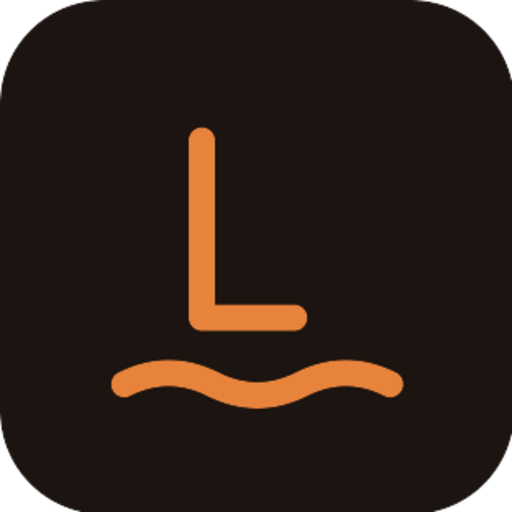
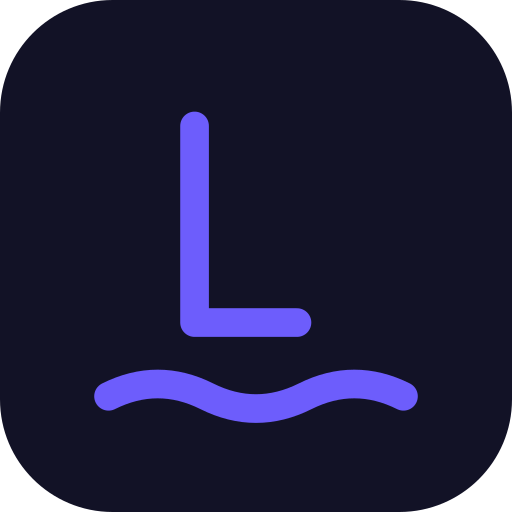
l.seedwave.pt v3: индиго, мини-диалог AIMA, тексты без Игоря (#2)
* l.seedwave.pt v3: индиго, светлая тема по умолчанию, мини-диалог AIMA, тексты без Игоря (5 языков)

- палитра: акцент #6D5DFC / ховер #5445E6 / фон #F6F5FF / рамки #E4E1FB / текст #1B1A2E / второстепенный #5C5B78; ночная: #121226 / #8B7DFF
- окно «Лис на связи»: диалог про письмо AIMA + 3 кнопки
- подвал: «Лис работает только с тем, к чему ты сам открыл доступ»
- значок, фавикон, apple-touch, 192/512, OG перекрашены; шрифт Inter

Claude-Session: https://claude.ai/code/session_01VKHYpjYwKjZCCgpFYtMmVL

* Ночная тема: абзац читаемым цветом

---------

diff --git a/index.html b/index.html
@@ -3,18 +3,18 @@
 <head>
 <meta charset="UTF-8">
 <meta name="viewport" content="width=device-width, initial-scale=1.0, viewport-fit=cover">
-<title>Lis — your AI secretary in two sessions</title>
-<meta name="description" content="Email and calendar run by an agent, a voice daily plan, your own Claude Project. Two online sessions with Igor, who lives this way on Madeira himself. You leave with a working secretary, not with advice.">
+<title>Lis — your AI secretary can start on Tuesday</title>
+<meta name="description" content="In a year everyone will have an AI secretary. Lis sorts your inbox, books meetings and answers by voice — an agent on your own data, set up in two online sessions. Made on Madeira.">
 
 <link rel="icon" type="image/svg+xml" href="icon.svg">
 <link rel="icon" type="image/png" sizes="32x32" href="favicon-32.png">
 <link rel="apple-touch-icon" sizes="180x180" href="apple-touch-icon.png">
 <link rel="manifest" href="manifest.webmanifest">
 <meta name="apple-mobile-web-app-title" content="Lis">
-<meta name="theme-color" content="#1B1410">
+<meta name="theme-color" content="#F6F5FF">
 
-<meta property="og:title" content="Lis — your AI secretary in two sessions">
-<meta property="og:description" content="Two online sessions with Igor, a week of follow-up — and your own AI secretary runs inside your Claude. Step 1 of the Island programme.">
+<meta property="og:title" content="Lis — your AI secretary can start on Tuesday">
+<meta property="og:description" content="Sorts your inbox, books meetings, answers by voice while you drive. An agent on your own data, set up in two online sessions. Made on Madeira.">
 <meta property="og:image" content="https://l.seedwave.pt/og-image.png">
 <meta property="og:url" content="https://l.seedwave.pt/">
 <meta property="og:type" content="website">
@@ -22,13 +22,13 @@
 
 <style>
 :root{
-  --bg:#1B1410; --bg2:#241A13; --bg3:#2C2018; --ink:#F6ECE4; --mut:#C9B4A6;
-  --line:#3A2C22; --accent:#E8833C; --accent2:#F3A868; --accentInk:#2A1408;
-  --serif:Georgia,'Times New Roman',serif; --sans:-apple-system,BlinkMacSystemFont,'Segoe UI',Roboto,Arial,sans-serif;
+  --bg:#F6F5FF; --bg2:#FFFFFF; --bg3:#EFEDFF; --ink:#1B1A2E; --mut:#5C5B78;
+  --line:#E4E1FB; --accent:#6D5DFC; --accent2:#5445E6; --accentInk:#FFFFFF;
+  --serif:Georgia,'Times New Roman',serif; --sans:Inter,-apple-system,BlinkMacSystemFont,'Segoe UI',Roboto,Arial,sans-serif;
 }
-:root[data-theme="light"]{
-  --bg:#FBF4EE; --bg2:#FFFFFF; --bg3:#FCF6F1; --ink:#241A13; --mut:#7A6656;
-  --line:#EAD9CB; --accent:#C96A25; --accent2:#E8833C; --accentInk:#FFFFFF;
+:root[data-theme="dark"]{
+  --bg:#121226; --bg2:#1A1A33; --bg3:#232345; --ink:#F1EFFF; --mut:#A9A6C9;
+  --line:#2F2E55; --accent:#8B7DFF; --accent2:#A79CFF; --accentInk:#121226;
 }
 *{box-sizing:border-box;margin:0;padding:0}
 html{scroll-behavior:smooth}
@@ -52,7 +52,7 @@ a{color:inherit}
 .rbtn:active{transform:scale(.92)}
 .langwrap{position:relative}
 .langmenu{position:absolute;top:46px;right:0;background:var(--bg2);border:1px solid var(--line);border-radius:14px;
-  padding:6px;min-width:176px;box-shadow:0 12px 30px rgba(0,0,0,.28);display:none;z-index:40}
+  padding:6px;min-width:176px;box-shadow:0 12px 30px rgba(27,26,46,.14);display:none;z-index:40}
 .langmenu.open{display:block}
 .langmenu button{display:flex;width:100%;gap:10px;align-items:center;background:none;border:none;color:var(--ink);
   padding:9px 10px;border-radius:9px;cursor:pointer;font-size:14px;text-align:left;font-family:inherit}
@@ -67,26 +67,21 @@ section{padding:0 22px}
 .hero{min-height:100svh;display:flex;flex-direction:column;justify-content:center;padding-top:82px;padding-bottom:40px}
 .tag{color:var(--accent);font-size:13px;font-weight:700;letter-spacing:.14em;text-transform:uppercase;margin-bottom:14px}
 h1{font-family:var(--sans);font-size:clamp(52px,15vw,96px);line-height:.98;font-weight:700;letter-spacing:-.01em}
-.sub{font-size:clamp(19px,4.8vw,26px);color:var(--accent2);margin-top:10px;font-weight:600}
-.hook{font-size:clamp(16px,3.6vw,19px);color:var(--mut);margin-top:20px;max-width:580px}
+.sub{font-size:clamp(19px,4.8vw,26px);color:var(--accent);margin-top:10px;font-weight:600}
+.hook{font-size:clamp(16px,3.6vw,19px);color:#3B3A55;}
+:root[data-theme="dark"] .hook{color:var(--mut);margin-top:20px;max-width:580px}
 
-/* photo-wow card */
-.wow{margin-top:30px;background:var(--bg2);border:1px solid var(--line);border-radius:20px;padding:18px;max-width:440px}
-.wow .wh{display:flex;align-items:center;gap:8px;color:var(--mut);font-size:13px;margin-bottom:14px}
-.wow .wh b{color:var(--ink)}
-.fox{width:18px;height:18px}
-.pline{display:flex;align-items:flex-start;gap:10px;padding:11px 13px;border-radius:12px;background:var(--bg3);margin-bottom:9px;font-size:14px;
-  opacity:0;transform:translateY(8px);transition:opacity .45s ease,transform .45s ease}
-.pline.show{opacity:1;transform:none}
-.pline .ic{flex:0 0 auto;font-size:15px;line-height:1.4}
-.pline .tx{flex:1}
-.pline.get{color:var(--ink)}
-.pline.get .lbl{color:var(--accent);font-weight:700}
-.pline.done{align-items:center;justify-content:space-between}
-.pline.done .tx{color:var(--mut)}
-.ynb{display:flex;gap:6px;flex:0 0 auto}
-.yn{width:30px;height:26px;border-radius:8px;display:flex;align-items:center;justify-content:center;font-size:13px;border:1px solid var(--line)}
-.yn.y{border-color:var(--accent);background:var(--accent);color:var(--accentInk)}
+/* chat card (Лис на связи) */
+.wow{margin-top:30px;background:var(--bg2);border:1px solid var(--line);border-radius:18px;padding:18px 18px 20px;max-width:520px;box-shadow:0 10px 30px rgba(109,93,252,.08);display:flex;flex-direction:column;gap:12px}
+.wow .wh{display:flex;align-items:center;gap:8px;color:var(--ink);font-size:13px;font-weight:600}
+.fox{width:14px;height:14px}
+.bub{max-width:82%;padding:10px 14px;font-size:14px;line-height:1.4;opacity:0;transform:translateY(8px);transition:opacity .45s ease,transform .45s ease}
+.bub.show{opacity:1;transform:none}
+.bub.me{align-self:flex-end;background:var(--accent);color:var(--accentInk);border-radius:14px 14px 4px 14px;max-width:78%}
+.bub.lis{align-self:flex-start;background:var(--bg3);color:var(--ink);border-radius:14px 14px 14px 4px}
+.chips{display:flex;gap:8px;flex-wrap:wrap;opacity:0;transition:opacity .45s ease}
+.chips.show{opacity:1}
+.chip{border:1px solid var(--line);background:var(--bg2);color:var(--ink);border-radius:999px;padding:8px 14px;font-size:13px;font-weight:500;min-height:36px;font-family:inherit;cursor:default}
 
 /* cta */
 .cta{display:flex;flex-wrap:wrap;gap:12px;margin-top:30px;align-items:center}
@@ -109,16 +104,19 @@ h1{font-family:var(--sans);font-size:clamp(52px,15vw,96px);line-height:.98;font-
   background:var(--accent);box-shadow:0 0 0 4px color-mix(in srgb,var(--accent) 22%,transparent)}
 
 /* footer */
-footer{text-align:center;padding:40px 22px 64px;font-size:15px;color:var(--mut);border-top:1px solid var(--line)}
+footer{text-align:center;padding:40px 22px 64px;font-size:14px;color:var(--mut);border-top:1px solid var(--line);display:flex;flex-direction:column;gap:10px}
 footer a{display:inline-block;padding:8px 4px;text-decoration:underline;text-decoration-color:var(--accent);text-underline-offset:4px}
 .toast{position:fixed;left:50%;bottom:26px;transform:translateX(-50%) translateY(20px);background:var(--ink);color:var(--bg);
   padding:12px 20px;border-radius:12px;font-size:14px;font-weight:600;opacity:0;pointer-events:none;transition:.3s;z-index:9}
 .toast.show{opacity:1;transform:translateX(-50%) translateY(0)}
 
 @media(prefers-reduced-motion:reduce){
-  .brandmark.reveal{animation:none}.pline{transition:none;opacity:1;transform:none}
+  .brandmark.reveal{animation:none}.bub,.chips{transition:none;opacity:1;transform:none}
 }
 </style>
+<link rel="preconnect" href="https://fonts.googleapis.com">
+<link rel="preconnect" href="https://fonts.gstatic.com" crossorigin>
+<link href="https://fonts.googleapis.com/css2?family=Inter:wght@400;500;600;700;800&display=swap" rel="stylesheet">
 <link rel="canonical" href="https://l.seedwave.pt/">
 </head>
 <body>
@@ -147,10 +145,10 @@ footer a{display:inline-block;padding:8px 4px;text-decoration:underline;text-dec
     <p class="hook" data-i="hook"></p>
 
     <div class="wow" aria-hidden="true">
-      <div class="wh"><svg class="fox" viewBox="0 0 100 100" fill="none" stroke="var(--accent)" stroke-width="8" stroke-linecap="round" stroke-linejoin="round"><path d="M35 18 L35 66 L60 66"/><path d="M14 84 Q26 78 38 84 Q50 90 62 84 Q74 78 86 84"/></svg> <b data-i="wowHead">Lis online</b></div>
-      <div class="pline" id="p1"><span class="ic">📷</span><span class="tx" id="exPhoto"></span></div>
-      <div class="pline get" id="p2"><span class="ic">🦊</span><span class="tx"><span class="lbl" data-i="exLbl">Понял:</span> <span id="exGet"></span></span></div>
-      <div class="pline done" id="p3"><span class="tx" id="exDone"></span><span class="ynb"><span class="yn y">✅</span><span class="yn">❌</span></span></div>
+      <div class="wh"><svg class="fox" viewBox="0 0 100 100" fill="none" stroke="var(--accent)" stroke-width="8" stroke-linecap="round" stroke-linejoin="round"><path d="M35 18 L35 66 L60 66"/><path d="M14 84 Q26 78 38 84 Q50 90 62 84 Q74 78 86 84"/></svg> <b data-i="wowHead">Лис на связи</b></div>
+      <div class="bub me" id="b1" data-i="chatUser"></div>
+      <div class="bub lis" id="b2" data-i="chatLis"></div>
+      <div class="chips" id="b3"><span class="chip" data-i="chip1"></span><span class="chip" data-i="chip2"></span><span class="chip" data-i="chip3"></span></div>
     </div>
 
     <div class="cta">
@@ -176,122 +174,78 @@ footer a{display:inline-block;padding:8px 4px;text-decoration:underline;text-dec
 </section>
 
 <footer>
-  <span>© <span id="yr"></span> <a id="swLink" href="#">SeedWave</a> · <a href="https://www.linkedin.com/in/igor-kartuzov/" target="_blank" rel="noopener">Igor Kartuzov</a></span>
+  <span data-i="footNote"></span>
+  <span>© <span id="yr"></span> <a id="swLink" href="#">SeedWave</a> · Madeira · <a href="https://www.linkedin.com/in/igor-kartuzov/" target="_blank" rel="noopener">Igor Kartuzov</a></span>
 </footer>
 
 <div class="toast" id="toast"></div>
 
 <script>
 const L = {
-  ru:{name:"Русский", tag:"SeedWave · AI", sub:"Твой ИИ-секретарь за две сессии",
-    hook:"Почта и календарь под агентом, план дня голосом, свой Проект Claude. Две онлайн-сессии с Игорем, который сам так живёт на Мадейре, и неделя переписки. Уезжаешь не с советами, а с работающим секретарём.",
-    wowHead:"Лис на связи", exLbl:"Понял:",
-    ex:[
-      {photo:"фото записки от руки", get:"счёт арендатору, срок завтра", done:"черновик выставлен —"},
-      {photo:"фото визитки", get:"новый контакт, добавить в базу", done:"контакт сохранён —"},
-      {photo:"скрин письма из AIMA", get:"запись на ВНЖ, нужен ответ", done:"ответ подготовлен —"}
-    ],
-    cta:"Попробовать Лиса в Telegram", share:"Переслать другу", ctaNote:"Откроется демо-бот: две минуты, четыре кнопки, без регистрации.",
-    howTitle:"Как это проходит", proofTitle:"Почему это работает",
+  ru:{name:"Русский", tag:"SeedWave · AI", sub:"Через год ИИ-секретарь будет у каждого. Твой может начать во вторник", hook:"Лис уже разбирает входящие, ставит встречи и отвечает голосом, пока ты за рулём. Он не приложение — он агент на твоих данных, настроенный под тебя за две онлайн-сессии. Дальше работает сам, а ты замечаешь, что день стал длиннее. Сделан на Мадейре — там, где хватает океана, чтобы смотреть вперёд.", wowHead:"Лис на связи", chatUser:"Пришло письмо из AIMA, не понимаю ни слова", chatLis:"Это уведомление о назначенной дате. Приём 21 ноября в 10:30, адрес и карта — в событии. Поставил в календарь, за день напомню, какие документы взять.", chip1:"Ответить им", chip2:"Перевести письмо", chip3:"Что взять с собой", cta:"Попробовать Лиса в Telegram", share:"Переслать другу", ctaNote:"Демо-бот: две минуты, четыре кнопки, без регистрации. Вторник подойдёт.", howTitle:"Как это проходит", proofTitle:"Почему это работает", footNote:"Лис работает только с тем, к чему ты сам открыл доступ.",
     how:[
-      "Знакомство в Telegram: демо-бот Лиса спрашивает, что съедает твоё время, и показывает, что делает секретарь. Две минуты, кнопками.",
-      "Сессия 1 (60–90 мин): подключаем почту и календарь к твоему Claude, собираем твой Проект, секретарь впервые разбирает входящее при тебе.",
-      "Неделя переписки: секретарь работает, ты отвечаешь «да» или «нет», Игорь подправляет связки под твою жизнь.",
-      "Сессия 2: голос, напоминания, свой Пульт открытых вопросов. Дальше секретарь твой: живёт в твоём Claude, не у нас."
+      "Знакомство в Telegram: демо-бот спрашивает, что съедает твоё время, и показывает, что умеет секретарь. Две минуты, кнопками.",
+      "Сессия 1 (онлайн, 60–90 мин): почта и календарь подключаются к твоему Claude, собирается твой Проект, секретарь впервые разбирает входящее при тебе.",
+      "Неделя в работе: секретарь ведёт поток, ты отвечаешь «да» или «нет», связки подстраиваются под твой ритм.",
+      "Сессия 2: голос, напоминания, свой пульт открытых вопросов. Дальше секретарь твой — живёт в твоём Claude, не у нас."
     ],
     proofs:[
-      "Игорь — пользователь №1: такой же секретарь каждый день ведёт его почту, календарь, аренду и переписку с госорганами Португалии.",
+      "Агент на твоих данных, а не чат, которому всё объясняешь заново: он знает твою почту, календарь и открытые вопросы.",
       "Не аренда и не подписка на сервис: всё собирается в твоём Claude и остаётся твоим.",
-      "Что нужно: платный Claude, смартфон, компьютер и желание. Игорь ничего не навязывает — первый шаг за тобой.",
-      "Ступень 1 программы «Остров». Дальше по желанию: ретрит «Автопилот на Мадейре» и сопровождение."
+      "Что нужно: платный Claude, смартфон, компьютер и желание. Первый шаг за тобой.",
+      "Начинается во вторник: первая сессия — и к вечеру входящие уже разобраны."
     ]},
-  en:{name:"English", tag:"SeedWave · AI", sub:"Your AI secretary in two sessions",
-    hook:"Email and calendar run by an agent, a voice daily plan, your own Claude Project. Two online sessions with Igor, who lives this way on Madeira himself, plus a week of follow-up. You leave not with advice but with a working secretary.",
-    wowHead:"Lis online", exLbl:"Got it:",
-    ex:[
-      {photo:"photo of a handwritten note", get:"invoice for the tenant, due tomorrow", done:"draft prepared —"},
-      {photo:"photo of a business card", get:"new contact, add to your base", done:"contact saved —"},
-      {photo:"screenshot of an AIMA email", get:"residency appointment, needs a reply", done:"reply prepared —"}
-    ],
-    cta:"Try Lis on Telegram", share:"Share with a friend", ctaNote:"Opens the demo bot: two minutes, four buttons, no sign-up.",
-    howTitle:"How it goes", proofTitle:"Why it works",
+  en:{name:"English", tag:"SeedWave · AI", sub:"In a year everyone will have an AI secretary. Yours can start on Tuesday", hook:"Lis already sorts your inbox, books meetings and answers by voice while you drive. Not an app — an agent on your own data, set up for you in two online sessions. Then it runs on its own, and you notice the day got longer. Made on Madeira, where there is enough ocean to look ahead.", wowHead:"Lis online", chatUser:"Got a letter from AIMA, can't understand a word", chatLis:"It's a notice of your appointment date. 21 November at 10:30, address and map are in the event. Added it to your calendar; the day before I'll remind you which documents to bring.", chip1:"Reply to them", chip2:"Translate the letter", chip3:"What to bring", cta:"Try Lis on Telegram", share:"Share with a friend", ctaNote:"Demo bot: two minutes, four buttons, no sign-up. Tuesday works.", howTitle:"How it goes", proofTitle:"Why it works", footNote:"Lis works only with what you have opened access to yourself.",
     how:[
-      "Meet on Telegram: the Lis demo bot asks what eats your time and shows what a secretary does. Two minutes, buttons only.",
-      "Session 1 (60–90 min): we connect email and calendar to your Claude, set up your Project, and the secretary sorts your inbox for the first time while you watch.",
-      "A week of follow-up: the secretary works, you answer “yes” or “no”, Igor tunes the links to your life.",
-      "Session 2: voice, reminders, your own board of open questions. From then on the secretary is yours: it lives in your Claude, not with us."
+      "Meet on Telegram: the demo bot asks what eats your time and shows what a secretary can do. Two minutes, buttons only.",
+      "Session 1 (online, 60–90 min): email and calendar are connected to your Claude, your Project is set up, and the secretary sorts your inbox for the first time while you watch.",
+      "A week at work: the secretary runs the flow, you answer “yes” or “no”, the links adjust to your rhythm.",
+      "Session 2: voice, reminders, your own board of open questions. From then on the secretary is yours — it lives in your Claude, not with us."
     ],
     proofs:[
-      "Igor is user no. 1: the same secretary runs his email, calendar, rentals and correspondence with Portuguese authorities every day.",
+      "An agent on your data, not a chat you explain everything to again: it knows your email, calendar and open questions.",
       "No rental, no service subscription: everything is built inside your Claude and stays yours.",
-      "What you need: a paid Claude plan, a smartphone, a computer and the wish to start. Igor pushes nothing — the first step is yours.",
-      "Step 1 of the “Island” programme. Next, if you want: the “Autopilot on Madeira” retreat and ongoing support."
+      "What you need: a paid Claude plan, a smartphone, a computer and the wish to start. The first step is yours.",
+      "Starts on Tuesday: first session — and by the evening the inbox is already sorted."
     ]},
-  pt:{name:"Português", tag:"SeedWave · AI", sub:"O teu secretário de IA em duas sessões",
-    hook:"Email e calendário geridos por um agente, plano do dia por voz, o teu próprio Projeto Claude. Duas sessões online com o Igor, que vive assim na Madeira, e uma semana de acompanhamento. Sais não com conselhos, mas com um secretário a funcionar.",
-    wowHead:"Lis online", exLbl:"Percebi:",
-    ex:[
-      {photo:"foto de uma nota à mão", get:"fatura ao inquilino, prazo amanhã", done:"rascunho preparado —"},
-      {photo:"foto de um cartão", get:"novo contacto, juntar à base", done:"contacto guardado —"},
-      {photo:"captura de email da AIMA", get:"marcação de residência, precisa resposta", done:"resposta preparada —"}
-    ],
-    cta:"Experimentar o Lis no Telegram", share:"Enviar a um amigo", ctaNote:"Abre o bot de demonstração: dois minutos, quatro botões, sem registo.",
-    howTitle:"Como decorre", proofTitle:"Porque funciona",
+  pt:{name:"Português", tag:"SeedWave · AI", sub:"Daqui a um ano toda a gente terá um secretário de IA. O teu pode começar na terça-feira", hook:"O Lis já trata do correio recebido, marca reuniões e responde por voz enquanto conduzes. Não é uma aplicação — é um agente sobre os teus dados, afinado para ti em duas sessões online. Depois trabalha sozinho, e tu reparas que o dia ficou mais longo. Feito na Madeira — onde há oceano que chegue para olhar em frente.", wowHead:"Lis online", chatUser:"Chegou uma carta da AIMA, não percebo uma palavra", chatLis:"É a notificação da data marcada. Atendimento a 21 de novembro às 10:30, morada e mapa no evento. Já está no calendário; na véspera lembro-te que documentos levar.", chip1:"Responder-lhes", chip2:"Traduzir a carta", chip3:"O que levar", cta:"Experimentar o Lis no Telegram", share:"Enviar a um amigo", ctaNote:"Bot de demonstração: dois minutos, quatro botões, sem registo. Terça-feira serve.", howTitle:"Como decorre", proofTitle:"Porque funciona", footNote:"O Lis trabalha apenas com aquilo a que tu próprio deste acesso.",
     how:[
-      "Primeiro contacto no Telegram: o bot do Lis pergunta o que te come o tempo e mostra o que faz um secretário. Dois minutos, só botões.",
-      "Sessão 1 (60–90 min): ligamos o email e o calendário ao teu Claude, montamos o teu Projeto e o secretário trata do correio pela primeira vez à tua frente.",
-      "Uma semana de acompanhamento: o secretário trabalha, tu respondes «sim» ou «não», o Igor afina as ligações à tua vida.",
-      "Sessão 2: voz, lembretes, o teu painel de questões em aberto. A partir daí o secretário é teu: vive no teu Claude, não connosco."
+      "Primeiro contacto no Telegram: o bot pergunta o que te come o tempo e mostra o que o secretário sabe fazer. Dois minutos, só botões.",
+      "Sessão 1 (online, 60–90 min): o email e o calendário ligam-se ao teu Claude, monta-se o teu Projeto e o secretário trata do correio pela primeira vez à tua frente.",
+      "Uma semana a trabalhar: o secretário gere o fluxo, tu respondes «sim» ou «não», as ligações ajustam-se ao teu ritmo.",
+      "Sessão 2: voz, lembretes, o teu painel de questões em aberto. A partir daí o secretário é teu — vive no teu Claude, não connosco."
     ],
     proofs:[
-      "O Igor é o utilizador n.º 1: um secretário igual trata todos os dias do email, do calendário, dos arrendamentos e da correspondência com os serviços públicos portugueses.",
+      "Um agente sobre os teus dados, não um chat a quem explicas tudo de novo: conhece o teu email, o calendário e as questões em aberto.",
       "Sem aluguer nem subscrição de serviço: tudo é montado no teu Claude e fica teu.",
-      "O que precisas: Claude pago, smartphone, computador e vontade. O Igor não impõe nada — o primeiro passo é teu.",
-      "Etapa 1 do programa «Ilha». Depois, se quiseres: o retiro «Piloto automático na Madeira» e acompanhamento."
+      "O que precisas: Claude pago, smartphone, computador e vontade. O primeiro passo é teu.",
+      "Começa na terça-feira: primeira sessão — e ao fim do dia o correio já está tratado."
     ]},
-  es:{name:"Español", tag:"SeedWave · AI", sub:"Tu secretario de IA en dos sesiones",
-    hook:"Correo y calendario gestionados por un agente, plan del día por voz, tu propio Proyecto Claude. Dos sesiones online con Igor, que vive así en Madeira, y una semana de seguimiento. Te vas no con consejos, sino con un secretario que funciona.",
-    wowHead:"Lis en línea", exLbl:"Entendido:",
-    ex:[
-      {photo:"foto de una nota a mano", get:"factura al inquilino, vence mañana", done:"borrador preparado —"},
-      {photo:"foto de una tarjeta", get:"nuevo contacto, añadir a la base", done:"contacto guardado —"},
-      {photo:"captura de correo de AIMA", get:"cita de residencia, necesita respuesta", done:"respuesta preparada —"}
-    ],
-    cta:"Probar Lis en Telegram", share:"Enviar a un amigo", ctaNote:"Se abre el bot de demostración: dos minutos, cuatro botones, sin registro.",
-    howTitle:"Cómo transcurre", proofTitle:"Por qué funciona",
+  es:{name:"Español", tag:"SeedWave · AI", sub:"Dentro de un año todos tendrán un secretario de IA. El tuyo puede empezar el martes", hook:"Lis ya ordena el correo entrante, agenda reuniones y responde por voz mientras conduces. No es una aplicación — es un agente sobre tus datos, ajustado para ti en dos sesiones online. Después trabaja solo, y tú notas que el día se ha hecho más largo. Hecho en Madeira — donde hay océano de sobra para mirar hacia delante.", wowHead:"Lis en línea", chatUser:"Me llegó una carta de AIMA, no entiendo ni una palabra", chatLis:"Es la notificación de la cita asignada. Atención el 21 de noviembre a las 10:30, dirección y mapa en el evento. Ya está en el calendario; la víspera te recuerdo qué documentos llevar.", chip1:"Responderles", chip2:"Traducir la carta", chip3:"Qué llevar", cta:"Probar Lis en Telegram", share:"Enviar a un amigo", ctaNote:"Bot de demostración: dos minutos, cuatro botones, sin registro. El martes va bien.", howTitle:"Cómo transcurre", proofTitle:"Por qué funciona", footNote:"Lis trabaja solo con aquello a lo que tú mismo has dado acceso.",
     how:[
-      "Primer contacto en Telegram: el bot de Lis pregunta qué se come tu tiempo y muestra lo que hace un secretario. Dos minutos, solo botones.",
-      "Sesión 1 (60–90 min): conectamos correo y calendario a tu Claude, montamos tu Proyecto y el secretario ordena tu bandeja por primera vez delante de ti.",
-      "Una semana de seguimiento: el secretario trabaja, tú respondes «sí» o «no», Igor ajusta los enlaces a tu vida.",
-      "Sesión 2: voz, recordatorios, tu propio panel de cuestiones abiertas. Desde ahí el secretario es tuyo: vive en tu Claude, no con nosotros."
+      "Primer contacto en Telegram: el bot pregunta qué se come tu tiempo y muestra lo que sabe hacer el secretario. Dos minutos, solo botones.",
+      "Sesión 1 (online, 60–90 min): correo y calendario se conectan a tu Claude, se monta tu Proyecto y el secretario ordena tu bandeja por primera vez delante de ti.",
+      "Una semana en marcha: el secretario lleva el flujo, tú respondes «sí» o «no», los enlaces se ajustan a tu ritmo.",
+      "Sesión 2: voz, recordatorios, tu propio panel de cuestiones abiertas. Desde ahí el secretario es tuyo — vive en tu Claude, no con nosotros."
     ],
     proofs:[
-      "Igor es el usuario n.º 1: un secretario igual gestiona cada día su correo, su calendario, sus alquileres y la correspondencia con la administración portuguesa.",
+      "Un agente sobre tus datos, no un chat al que se lo explicas todo de nuevo: conoce tu correo, tu calendario y tus cuestiones abiertas.",
       "Sin alquiler ni suscripción a un servicio: todo se monta en tu Claude y queda tuyo.",
-      "Qué necesitas: Claude de pago, smartphone, ordenador y ganas. Igor no impone nada — el primer paso es tuyo.",
-      "Etapa 1 del programa «Isla». Después, si quieres: el retiro «Piloto automático en Madeira» y acompañamiento."
+      "Qué necesitas: Claude de pago, smartphone, ordenador y ganas. El primer paso es tuyo.",
+      "Empieza el martes: primera sesión — y por la tarde la bandeja ya está ordenada."
     ]},
-  de:{name:"Deutsch", tag:"SeedWave · AI", sub:"Dein KI-Sekretär in zwei Sitzungen",
-    hook:"E-Mail und Kalender von einem Agenten geführt, Tagesplan per Stimme, dein eigenes Claude-Projekt. Zwei Online-Sitzungen mit Igor, der selbst so auf Madeira lebt, plus eine Woche Begleitung. Du gehst nicht mit Ratschlägen, sondern mit einem arbeitenden Sekretär.",
-    wowHead:"Lis online", exLbl:"Verstanden:",
-    ex:[
-      {photo:"Foto einer handschriftlichen Notiz", get:"Rechnung an den Mieter, morgen fällig", done:"Entwurf erstellt —"},
-      {photo:"Foto einer Visitenkarte", get:"neuer Kontakt, in die Basis aufnehmen", done:"Kontakt gespeichert —"},
-      {photo:"Screenshot einer AIMA-Mail", get:"Termin für Aufenthalt, braucht Antwort", done:"Antwort vorbereitet —"}
-    ],
-    cta:"Lis auf Telegram ausprobieren", share:"An Freund senden", ctaNote:"Öffnet den Demo-Bot: zwei Minuten, vier Buttons, keine Anmeldung.",
-    howTitle:"So läuft es ab", proofTitle:"Warum es funktioniert",
+  de:{name:"Deutsch", tag:"SeedWave · AI", sub:"In einem Jahr hat jeder einen KI-Sekretär. Deiner kann am Dienstag anfangen", hook:"Lis sortiert schon deine Eingänge, legt Termine an und antwortet per Stimme, während du fährst. Keine App — ein Agent auf deinen Daten, in zwei Online-Sitzungen auf dich eingestellt. Danach arbeitet er allein, und du merkst, dass der Tag länger geworden ist. Gemacht auf Madeira — wo genug Ozean ist, um nach vorn zu schauen.", wowHead:"Lis online", chatUser:"Ein Brief von AIMA ist gekommen, ich verstehe kein Wort", chatLis:"Das ist die Mitteilung über deinen Termin. Vorsprache am 21. November um 10:30, Adresse und Karte stehen im Ereignis. Steht im Kalender; am Vortag erinnere ich dich, welche Unterlagen mitzunehmen sind.", chip1:"Ihnen antworten", chip2:"Brief übersetzen", chip3:"Was mitnehmen", cta:"Lis auf Telegram ausprobieren", share:"An Freund senden", ctaNote:"Demo-Bot: zwei Minuten, vier Buttons, keine Anmeldung. Dienstag passt.", howTitle:"So läuft es ab", proofTitle:"Warum es funktioniert", footNote:"Lis arbeitet nur mit dem, wozu du selbst den Zugang geöffnet hast.",
     how:[
-      "Kennenlernen auf Telegram: der Lis-Demo-Bot fragt, was deine Zeit frisst, und zeigt, was ein Sekretär tut. Zwei Minuten, nur Buttons.",
-      "Sitzung 1 (60–90 Min.): wir verbinden E-Mail und Kalender mit deinem Claude, richten dein Projekt ein, und der Sekretär sortiert zum ersten Mal vor deinen Augen deinen Eingang.",
-      "Eine Woche Begleitung: der Sekretär arbeitet, du antwortest „ja“ oder „nein“, Igor stimmt die Verknüpfungen auf dein Leben ab.",
-      "Sitzung 2: Stimme, Erinnerungen, dein eigenes Board offener Fragen. Ab dann gehört der Sekretär dir: er lebt in deinem Claude, nicht bei uns."
+      "Kennenlernen auf Telegram: der Demo-Bot fragt, was deine Zeit frisst, und zeigt, was ein Sekretär kann. Zwei Minuten, nur Buttons.",
+      "Sitzung 1 (online, 60–90 Min.): E-Mail und Kalender werden mit deinem Claude verbunden, dein Projekt wird eingerichtet, und der Sekretär sortiert zum ersten Mal vor deinen Augen deinen Eingang.",
+      "Eine Woche im Einsatz: der Sekretär führt den Fluss, du antwortest „ja“ oder „nein“, die Verknüpfungen passen sich deinem Rhythmus an.",
+      "Sitzung 2: Stimme, Erinnerungen, dein eigenes Board offener Fragen. Ab dann gehört der Sekretär dir — er lebt in deinem Claude, nicht bei uns."
     ],
     proofs:[
-      "Igor ist Nutzer Nr. 1: derselbe Sekretär führt täglich seine E-Mails, seinen Kalender, seine Vermietungen und den Schriftverkehr mit portugiesischen Behörden.",
+      "Ein Agent auf deinen Daten, kein Chat, dem du alles neu erklärst: er kennt deine E-Mails, deinen Kalender und deine offenen Fragen.",
       "Keine Miete, kein Service-Abo: alles entsteht in deinem Claude und bleibt deins.",
-      "Was du brauchst: bezahltes Claude, Smartphone, Computer und Lust anzufangen. Igor drängt nichts auf — der erste Schritt ist deiner.",
-      "Stufe 1 des Programms «Insel». Danach nach Wunsch: das Retreat «Autopilot auf Madeira» und Begleitung."
+      "Was du brauchst: bezahltes Claude, Smartphone, Computer und Lust anzufangen. Der erste Schritt ist deiner.",
+      "Beginnt am Dienstag: erste Sitzung — und am Abend ist der Eingang schon sortiert."
     ]}
 };
 const ORDER=["pt","en","ru","es","de"];
@@ -299,11 +253,11 @@ const HUB="https://seedwave.pt/hub/";
 const qs=new URLSearchParams(location.search);
 let lang=(qs.get("lang")||localStorage.getItem("sw_lang")||(navigator.language||"pt").slice(0,2)).toLowerCase();
 if(!L[lang])lang="pt";
-let theme=qs.get("theme")||localStorage.getItem("sw_theme")||"dark";
+let theme=qs.get("theme")||localStorage.getItem("sw_theme")||"light";
 
-function applyTheme(){document.documentElement.dataset.theme=theme==="light"?"light":"";
-  document.getElementById("themeBtn").textContent=theme==="light"?"☀":"☾";
-  document.querySelector('meta[name=theme-color]').content=theme==="light"?"#FBF4EE":"#1B1410";}
+function applyTheme(){document.documentElement.dataset.theme=theme==="dark"?"dark":"";
+  document.getElementById("themeBtn").textContent=theme==="dark"?"☀":"☾";
+  document.querySelector('meta[name=theme-color]').content=theme==="dark"?"#121226":"#F6F5FF";}
 function apply(){
   const t=L[lang];document.documentElement.lang=lang;
   document.querySelectorAll("[data-i]").forEach(el=>{const k=el.getAttribute("data-i");if(t[k]!=null)el.textContent=t[k];});
@@ -314,7 +268,7 @@ function apply(){
   document.getElementById("swLink").href=HUB+"?lang="+lang+"&theme="+(theme==="light"?"light":"dark");
   document.getElementById("yr").textContent=new Date().getFullYear();
   document.title="Lis — "+t.sub;
-  runDemo(true);
+  runDemo();
 }
 // language menu
 const menu=document.getElementById("langMenu");
@@ -328,30 +282,17 @@ menu.querySelectorAll("button").forEach(b=>b.onclick=()=>{lang=b.dataset.l;local
   menu.classList.remove("open");apply();});
 document.getElementById("themeBtn").onclick=()=>{theme=theme==="light"?"dark":"light";localStorage.setItem("sw_theme",theme);applyTheme();apply();};
 
-// photo-wow demo (cycles examples)
-let demoTimer=null, exIdx=0;
-const p1=document.getElementById("p1"),p2=document.getElementById("p2"),p3=document.getElementById("p3");
+// chat demo (появление пузырей)
+let demoTimer=null;
+const b1=document.getElementById("b1"),b2=document.getElementById("b2"),b3=document.getElementById("b3");
 const reduce=window.matchMedia&&window.matchMedia("(prefers-reduced-motion:reduce)").matches;
-function paintEx(i){
-  const t=L[lang],e=t.ex[i];
-  document.getElementById("exPhoto").textContent=e.photo;
-  document.getElementById("exGet").textContent=e.get;
-  document.getElementById("exDone").textContent="✓ "+e.done;
-}
-function runDemo(reset){
+function runDemo(){
   clearTimeout(demoTimer);
-  if(reset){exIdx=0;}
-  if(reduce){paintEx(exIdx);[p1,p2,p3].forEach(p=>p.classList.add("show"));return;}
-  [p1,p2,p3].forEach(p=>p.classList.remove("show"));
-  paintEx(exIdx);
-  setTimeout(()=>p1.classList.add("show"),120);
-  setTimeout(()=>p2.classList.add("show"),900);
-  setTimeout(()=>p3.classList.add("show"),1700);
-  demoTimer=setTimeout(()=>{
-    [p1,p2,p3].forEach(p=>p.classList.remove("show"));
-    exIdx=(exIdx+1)%L[lang].ex.length;
-    demoTimer=setTimeout(()=>runDemo(false),450);
-  },4200);
+  if(reduce){[b1,b2,b3].forEach(p=>p.classList.add("show"));return;}
+  [b1,b2,b3].forEach(p=>p.classList.remove("show"));
+  setTimeout(()=>b1.classList.add("show"),200);
+  setTimeout(()=>b2.classList.add("show"),1100);
+  demoTimer=setTimeout(()=>b3.classList.add("show"),1900);
 }
 
 // share
